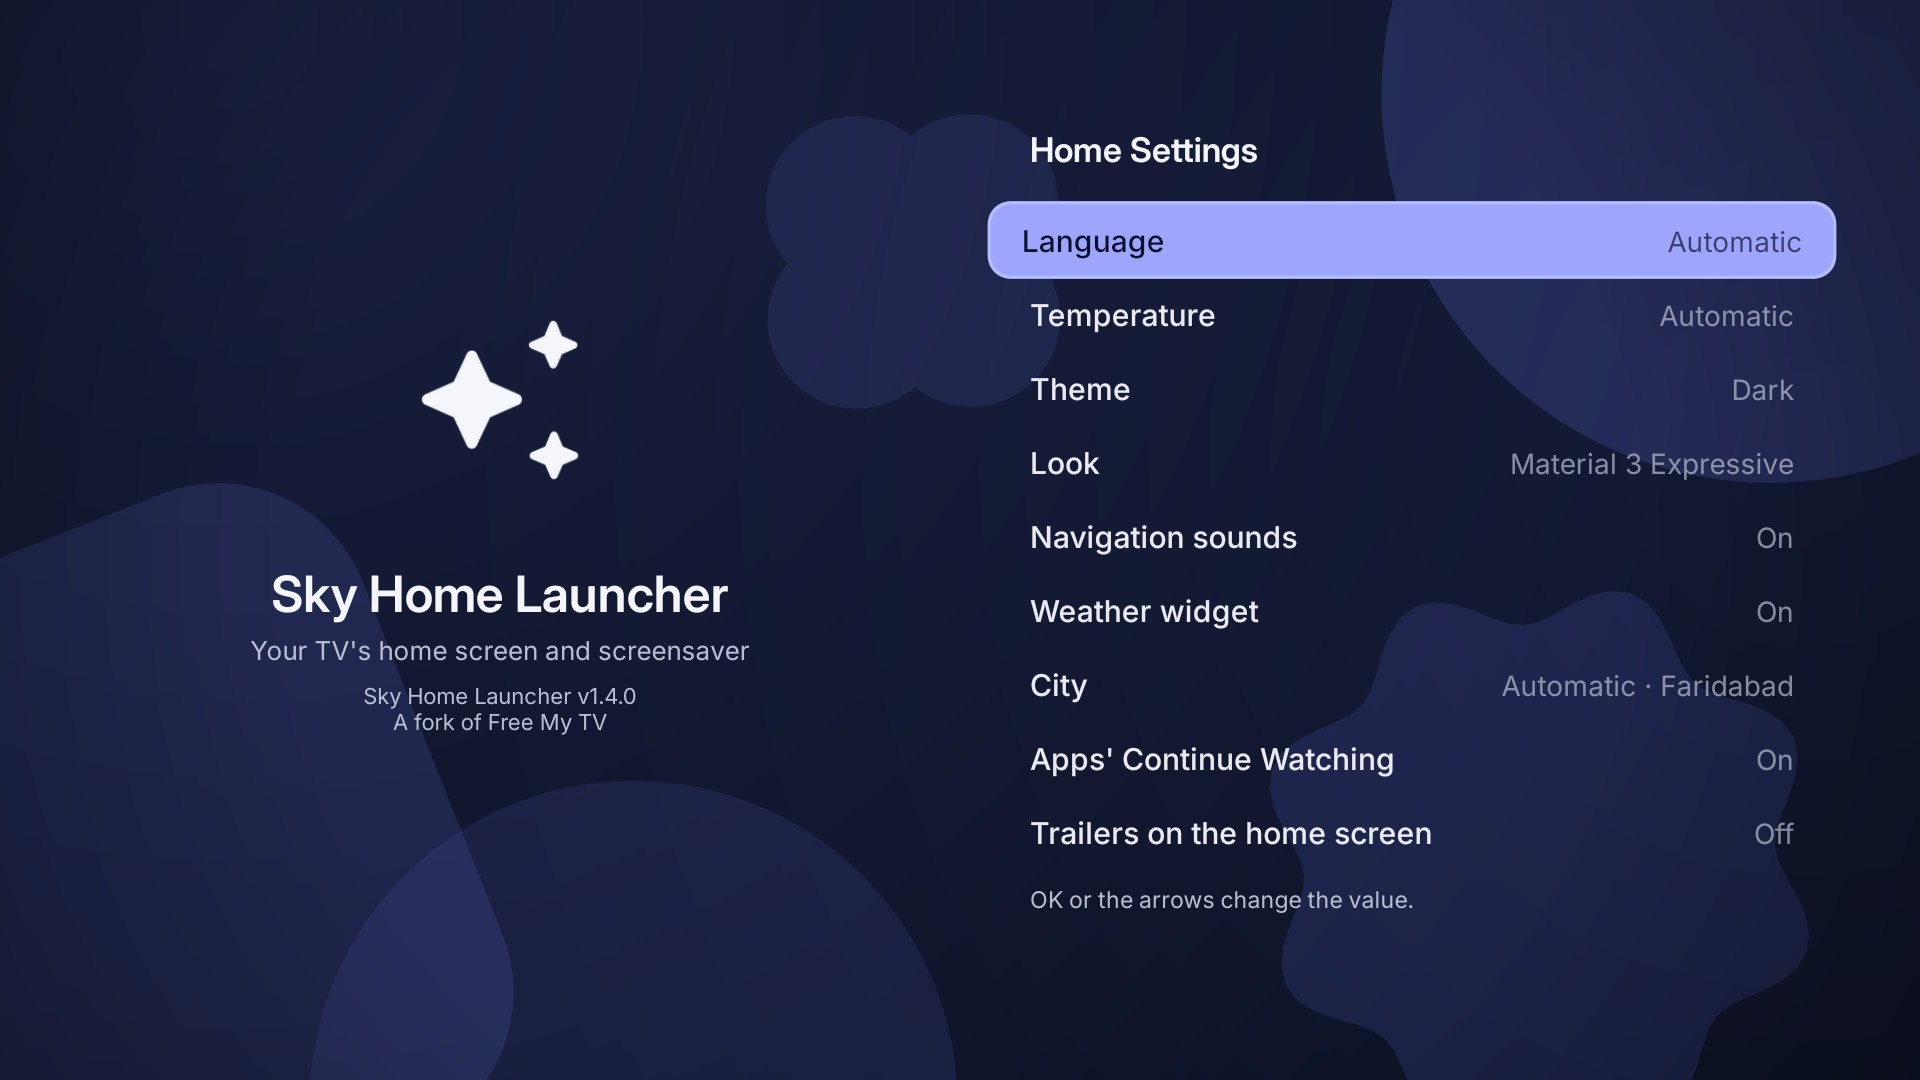
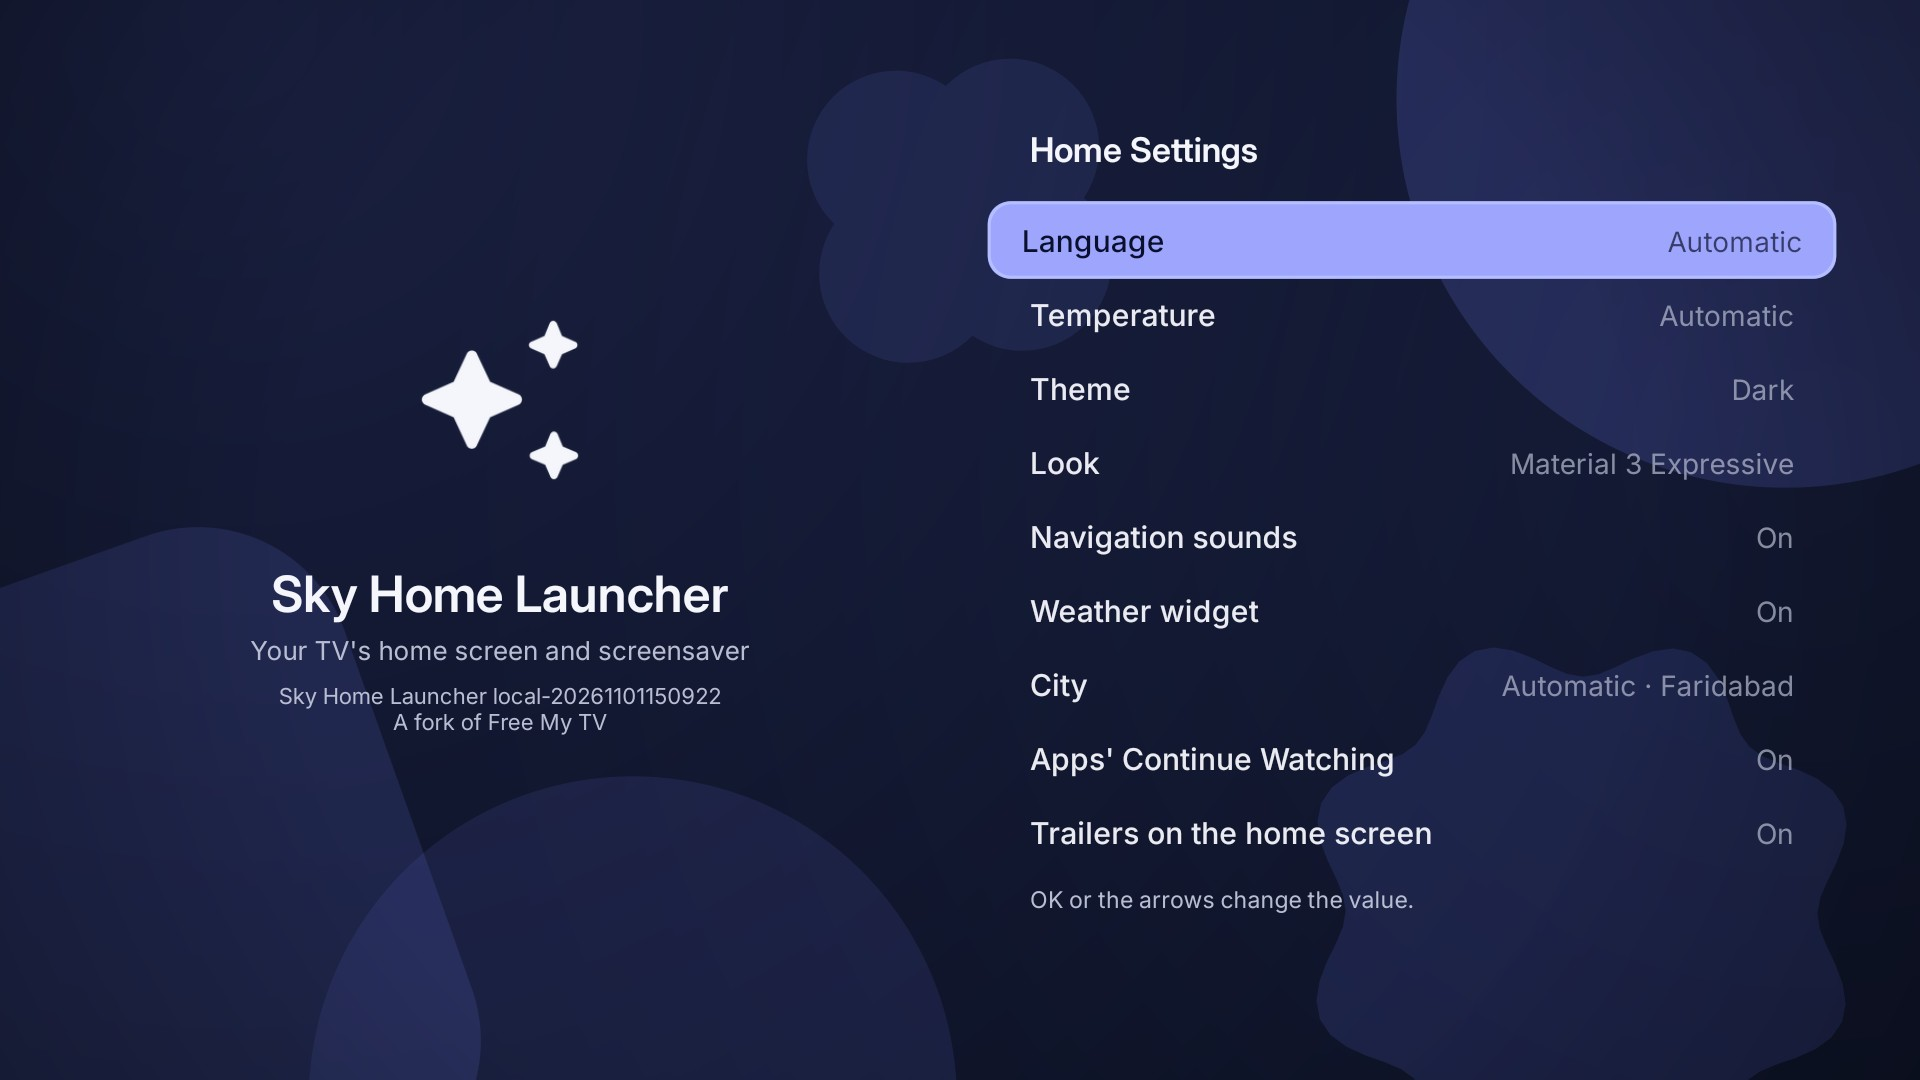
Quick Settings: ADB trigger, README section and Material dark screenshots
- RemoteKeyService takes a broadcast (am broadcast -a com.skyhome.launcher.QUICK_SETTINGS
  --es do show|hide|toggle) from senders holding DUMP, so the shell can open the card
  without a remote press. QuickCard gets show() next to toggle().
- tools/shots.sh: a "quick" area (the card, then the notifications) and a shot of the
  tiles editor in the settings area.
- README: a Quick Settings section with screenshots. Material dark shots of the card,
  the tiles editor and Home Settings (its last row is new) retaken.

diff --git a/app/src/com/skyhome/launcher/RemoteKeyService.java b/app/src/com/skyhome/launcher/RemoteKeyService.java
@@ -1,7 +1,10 @@
 package com.skyhome.launcher;
 
 import android.accessibilityservice.AccessibilityService;
+import android.content.BroadcastReceiver;
+import android.content.Context;
 import android.content.Intent;
+import android.content.IntentFilter;
 import android.view.KeyEvent;
 import android.view.accessibility.AccessibilityEvent;
 
@@ -10,6 +13,25 @@ import android.view.accessibility.AccessibilityEvent;
  * system waits for it on every key (up to half a second), so it runs in a process of its own and does next to nothing.
  */
 public class RemoteKeyService extends AccessibilityService {
+    /**
+     * Shows or hides the Quick Settings card from ADB, for screenshots and tests (a press of the remote can't be sent from a
+     * computer): `adb shell am broadcast -a com.skyhome.launcher.QUICK_SETTINGS --es do show` (or hide, toggle). Registered with
+     * the DUMP permission, which the shell has and ordinary apps don't, so no other app can open the card.
+     */
+    private final BroadcastReceiver fromAdb = new BroadcastReceiver() {
+        @Override public void onReceive(Context c, Intent i) {
+            String what = String.valueOf(i.getStringExtra("do"));
+            if (what.equals("show")) QuickCard.show(RemoteKeyService.this);
+            else if (what.equals("hide")) QuickCard.close();
+            else QuickCard.toggle(RemoteKeyService.this);
+        }
+    };
+
+    @Override protected void onServiceConnected() {
+        super.onServiceConnected();
+        registerReceiver(fromAdb, new IntentFilter(QuickCard.ACTION), "android.permission.DUMP", null);
+    }
+
     @Override protected boolean onKeyEvent(KeyEvent event) {
         return RemoteKeys.onKey(this, event);
     }
@@ -21,7 +43,15 @@ public class RemoteKeyService extends AccessibilityService {
         }
     }
 
+    private void stopAdb() {
+        try {
+            unregisterReceiver(fromAdb);
+        } catch (RuntimeException ignored) {      // never registered
+        }
+    }
+
     @Override public boolean onUnbind(Intent intent) {
+        stopAdb();
         QuickCard.close();
         return super.onUnbind(intent);
     }

diff --git a/app/src/com/skyhome/launcher/QuickCard.java b/app/src/com/skyhome/launcher/QuickCard.java
@@ -47,15 +47,20 @@ final class QuickCard {
         return view != null;
     }
 
+    /** Sent from ADB (`am broadcast -a com.skyhome.launcher.QUICK_SETTINGS --es do show|hide|toggle`): see RemoteKeyService. */
+    static final String ACTION = "com.skyhome.launcher.QUICK_SETTINGS";
+
     /** The remote button: opens the card, or closes it when it is open. Call on the main thread. */
     static void toggle(Context c) {
         long now = System.currentTimeMillis();
         if (now - lastToggle < 500) return;     // the remote can send one press twice
         lastToggle = now;
-        if (view != null) {
-            close();
-            return;
-        }
+        if (view != null) close(); else show(c);
+    }
+
+    /** Opens the card (nothing happens when it is already open). Call on the main thread. */
+    static void show(Context c) {
+        if (view != null) return;
         try {
             Context app = c.getApplicationContext();
             QuickLook look = QuickLook.load(app);

diff --git a/README.md b/README.md
@@ -71,6 +71,25 @@ exactly as it was.
 |---|---|---|
 | ![](screenshots/material-dark-settings-07.jpg) | ![](screenshots/material-dark-settings-08.jpg) | ![](screenshots/material-dark-settings-09.jpg) |
 
+**Quick Settings.** A card that slides in from the right over any app, from a remote button: the Skyworth remote's gear
+button opens it by default, and on any other TV you give it to a button in *Remote Buttons* (or to one you add under
+*Added buttons*). The app underneath pauses; Back, or the same button again, closes it.
+
+| The card | Notifications | Choosing the tiles |
+|---|---|---|
+| ![](screenshots/material-dark-quick-settings.jpg) | ![](screenshots/material-dark-quick-settings-notifications.jpg) | ![](screenshots/material-dark-settings-quick-tiles.jpg) |
+
+- **Tiles** open the TV's own screens, and never change a setting themselves: Settings, Wi-Fi, Bluetooth (the list of
+  paired and connected devices, with *Pair remote or accessory*), one tile per input of the TV (HDMI, AV…), Home and Apps.
+  Any installed app can be added as a tile that opens it.
+- **Notifications** are listed under the tiles, newest first. OK on one opens its app; *Clear* clears them all (ongoing ones
+  stay). Switching to Sky Home Launcher mode allows this through the TV's own ADB, and *Original* takes it back; where the TV
+  refuses, the section says so and the tiles still work. Nothing is stored or sent anywhere.
+- **Choose and order the tiles** in *Home Settings* → *Quick Settings tiles*: OK adds or removes a tile, ← → change the order, and
+  *Notifications* turns that section on or off.
+- It looks like the rest of Sky Home Launcher: the same moving background and focus, in the look (Liquid Glass or Material)
+  and the light or dark mode you picked.
+
 **Connecting Trakt, installing Stremio, adding Torrentio, setting keys from your phone, recording a remote button.**
 These all happen in Sky Home Launcher's own Settings, each with a short on-screen walkthrough and (for Trakt and the
 phone setup) a QR code — see [Integrations](#integrations) below for what each one does.
@@ -222,7 +241,7 @@ To remove it for good, switch to *Original* first, then uninstall *Sky Home Laun
   - Google Assistant, only with `disable_assistant=true`.
 - On TCL TVs, the remote's Netflix, YouTube and Prime buttons keep working through a small accessibility service that only reads those buttons. Pick what each one opens in *Sky Home Launcher* → *Remote Buttons*; *Original* turns the service off. On Vestel-made TVs (F&U and other store brands) and Xiaomi (Formovie) projectors the same goes for the Netflix button, and on KTC-made TVs (NextStar) for the Tabii button. On Sony TVs, the BRAVIA CORE, Netflix, Disney+, Prime Video, YouTube and Crunchyroll buttons (and Google Play, on remotes that have it) can each open the app you pick, or keep Sony's default.
 - Any other remote button can be recorded in *Remote Buttons* → *Added buttons*: press it, and choose what it opens — an app, TV Settings, Sky Home Launcher's own Settings, or *Quick Settings*.
-- *Quick Settings* is a card that slides in from the right over any app (the Skyworth remote's gear button opens it by default; on other TVs, give it to a button in *Remote Buttons*). It scrolls and has tiles for Settings, Wi-Fi, Bluetooth (the list of paired devices), each input (HDMI, AV), Home and Apps, then the TV's notifications with a *Clear* button (OK on one opens its app). Choose and order the tiles in *Home Settings* → *Quick Settings tiles* (OK adds or removes, ← → change the order); any installed app can be added as a tile that opens it. The app underneath pauses; Back or the same button closes it. It follows the look and dark/light mode. The switch to Sky Home Launcher mode allows notification access (through the TV's own ADB) and *Original* takes it back.
+- *Quick Settings* (described under Flows above) is a card over any app that a remote button can open.
 - *Sky Home Launcher* → *Sleep Timer* turns the TV off after 5 minutes to 4 hours, with the minutes left over any app (top center, or the corner you pick). It presses the remote's Sleep key through the TV's own ADB, so it works in Sky Home Launcher mode; *Original* stops it.
 - Picture, sound, inputs, remote pairing, Google services and the Play Store are on a protected list, checked before every change, and so are Android's own pieces and factory menus. Before anything goes off, the TV is asked whether its inputs or its remote's Input key depend on it; those stay on.
 - The setup app goes off before the stock home screen and comes back after it, so its recovery screen never takes over the Home button in between.

diff --git a/CLAUDE.md b/CLAUDE.md
@@ -69,7 +69,7 @@ keyless one: picks off, city from the TV's time zone), signed with the project's
 `tools/shots.sh <folder> [look] [theme] [area...]` drives the TV with remote keys (adb, Sky Home Launcher switched on, the
 remote left alone) and captures every area: Settings' main list and each sub-screen, the screensaver, the home screen, its
 picks and top buttons, All Apps, each row of the pages below the shelf, the episodes of a show. Areas:
-`core` (the small set), `all`, `settings`, `home`, `catalog`, `episodes`, `saver`, `apps` and `trailer` (only by name: where the inline trailer fails, YouTube opens, maybe on someone's profile); its header lists the
+`core` (the small set), `all`, `settings`, `home`, `catalog`, `episodes`, `saver`, `apps` and `trailer` (only by name: where the inline trailer fails, YouTube opens, maybe on someone's profile) and `quick` (only by name: the Quick Settings card, opened by `adb shell am broadcast -a com.skyhome.launcher.QUICK_SETTINGS --es do show|hide|toggle`, a receiver of `RemoteKeyService` that only senders with the DUMP permission, the shell, can reach: keys sent by `adb shell input` skip the key filter, so they can't open it); its header lists the
 env variables that adapt it to a TV (row numbers, how many presses to All Apps). `tools/update-screenshots.sh` retakes the
 README's `screenshots/<look>-<theme>-<area>.jpg` (every area in glass-dark, the core set in the other three; about 20
 minutes); `tools/shotdiff.py` compares two runs. Never `am force-stop` the app to reset it (that unbinds the remote

diff --git a/plans/plan-impl-quick-settings.md b/plans/plan-impl-quick-settings.md
@@ -238,3 +238,10 @@ Later: more custom actions than "open an app" (the key is already a prefix: `app
   a multi-word title or text arrives; that is the command, not the app).
 - First open after a restart takes about 0.7 s (fonts, the Scene's shaders). Not measured: the key process's memory with the
   Scene up, or its cost on a 1 GB TV.
+
+- **Showing the card without a remote** (screenshots, tests): `adb shell am broadcast -a com.skyhome.launcher.QUICK_SETTINGS --es do show|hide|toggle`.
+  `RemoteKeyService` registers the receiver with the `DUMP` permission, which the shell has and apps do not. `tools/shots.sh <folder> <look> <theme> quick`
+  uses it. (`adb shell input keyevent` skips the key filter, so it cannot open the card.)
+- Screenshots in `screenshots/`: `material-dark-quick-settings(.jpg|-notifications.jpg)`, `material-dark-settings-quick-tiles.jpg`, and the
+  Home Settings screens `material-dark-settings-02/02b/02c` retaken (a new last row). The Glass dark set (`glass-dark-settings-02*`) still shows the
+  old Home Settings list; retake it with `tools/update-screenshots.sh glass-dark`.
